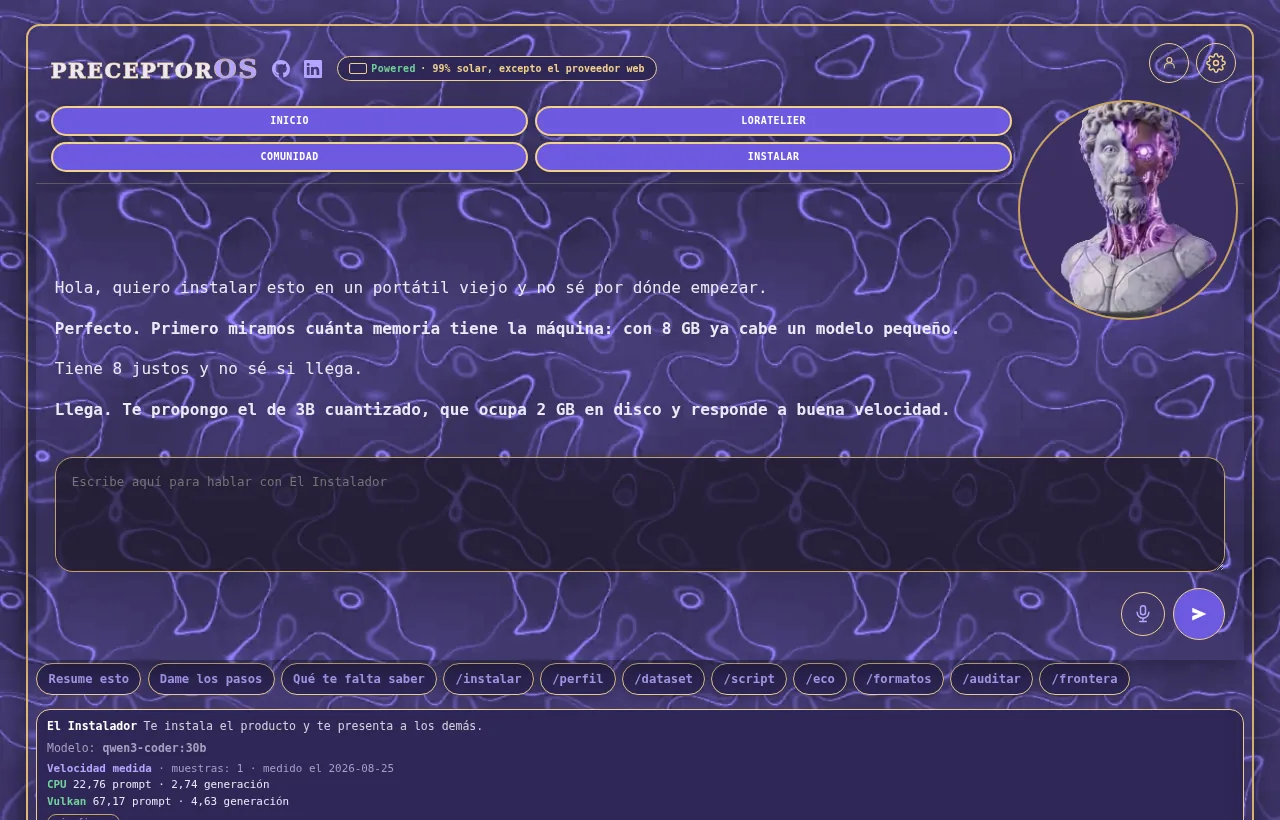
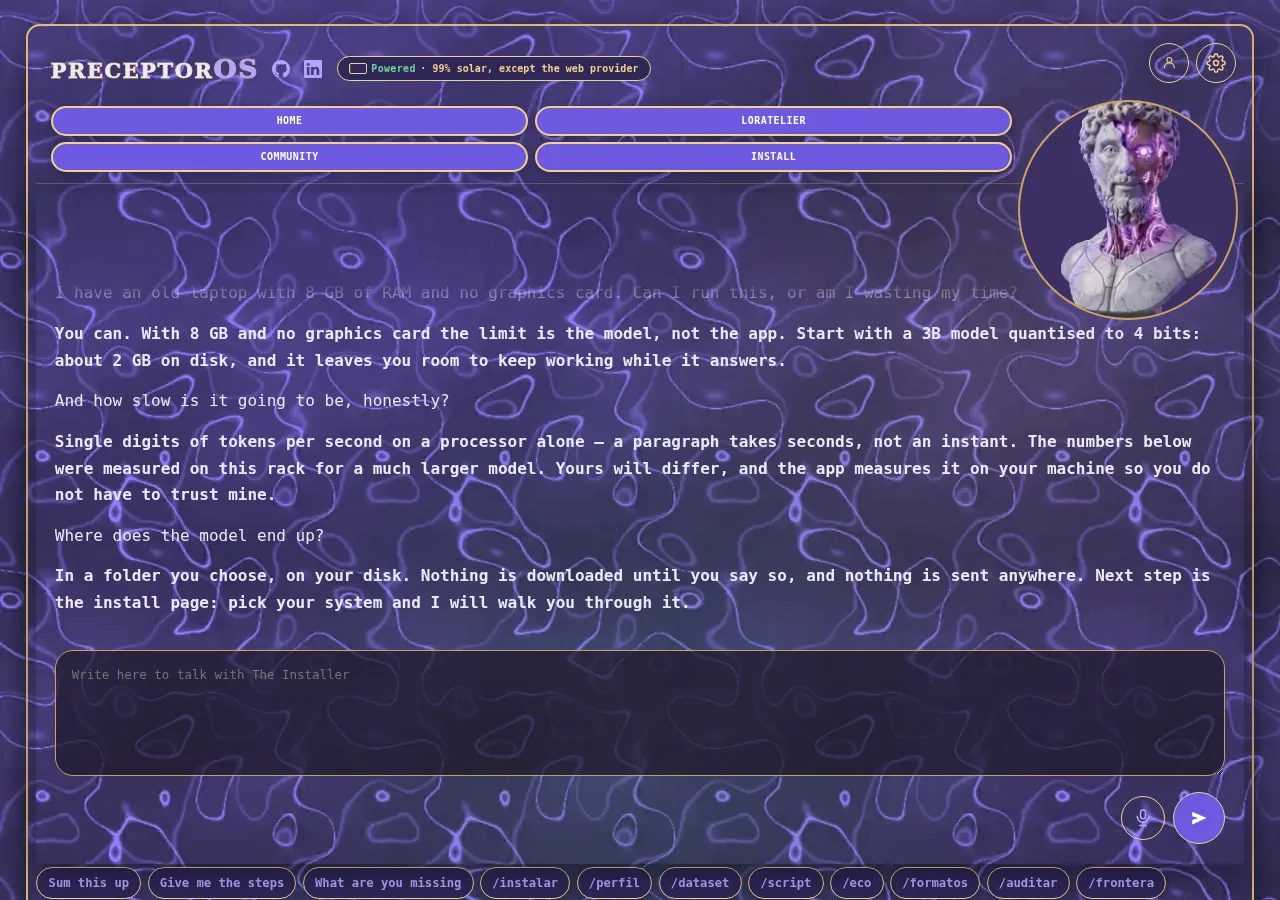
docs(readme): en ingles, sin nombres propios, y diciendo a donde va esto
El anterior era bilingue y describia una version de la pagina que ya no
existe. Este dice tres cosas y ninguna mas: que es --una guia para pasar el
muro de la instalacion, que no es de inteligencia sino de vocabulario--, que
promete y como comprobarlo, y A DONDE VA.

Lo ultimo se anade a peticion del Soberano y es lo que faltaba: quien lee este
repositorio --persona o maquina-- tiene que poder entender el objetivo sin
preguntar. Son dos: una comunidad de gente que corre su propio modelo y puede
compararse porque midio lo mismo en maquinas distintas, y aprender a construir
adaptadores pequenos y especializados contra bases de datos privadas -- datos
de operacion reales y lecturas de sensores fisicos.

Y ese segundo objetivo es la razon de que las reglas de honestidad de este
arbol sean estrictas: si vas a entrenar sobre datos que no pueden salir del
edificio, toda cifra que publiques sobre el resultado tiene que ser una que
mediste tu, con su fecha y su maquina.

Las cuatro capturas se regeneran con una conversacion de instalacion de
verdad, en ingles, contra la version desplegada.

diff --git a/README.md b/README.md
@@ -1,146 +1,91 @@
-# preceptoros-web
+# A door, and a place to meet
 
-**🇬🇧 The site does not talk to anyone until you press a button. That is not a
-promise — it is a measurement, and there is a test for it.**
+This repository holds a small public website. It has one job: to lower the
+wall between a person and their own AI.
 
-**🇪🇸 Este sitio no habla con nadie hasta que pulsas un botón. No es una promesa:
-es una medición, y tiene un test.**
+Most people who want to run AI on their own machine stop at the same place.
+Not at the idea — at the setup. A page of commands, three words they have
+never seen, and a download that may or may not be the right one. The wall is
+not intelligence. It is vocabulary.
 
-La web pública de [PreceptorOS](https://github.com/piskyRpapalo/PreceptorOS) —
-un preceptor que vive en tu máquina, sin nube, sin cuenta y sin turno.
+So this site is a guide first and a showcase second. You arrive, you talk to
+it, and it walks you through the steps for the machine you actually have.
+When the steps are done, you no longer need this site.
 
----
+The second job is slower: to gather the people who made it through. A tool
+you run alone teaches you one thing. A hundred people running it teach each
+other.
 
-## 🇬🇧 What it does / 🇪🇸 Qué hace
+## Where this is going
 
-🇬🇧 You can talk to a model **before installing anything**. On first keystroke the
-page works out what your machine can actually do and offers the most sovereign
-route it can run — never the other way round:
+Two goals, stated plainly so anyone — or anything — reading this repository
+knows what it is for.
 
-🇪🇸 Puedes hablar con un modelo **antes de instalar nada**. Al primer tecleo, la
-página averigua qué puede hacer tu máquina de verdad y te ofrece la vía más
-soberana que puedas correr — nunca al revés:
+**A community.** Not a user base. People who run their own model, keep their
+own memory, and can compare notes because they all measured the same things
+on different hardware. The site exists to get them past the setup, which is
+where most of them currently stop.
 
-| | Route / Vía | Cost / Coste |
-|---|---|---|
-| 1 | `LanguageModel` · already on device | zero network / cero red |
-| 2 | `LanguageModel` · `downloadable` | Gemini Nano, 2.7–4 GB — **stated before the button** |
-| 3 | WebLLM | ~945 MB, once / una vez |
-| 4 | Portable JSON | paste into the AI you already have |
+**Small models trained on private data.** The longer aim is to learn to build
+small specialised adapters — LoRAs — that work against private databases:
+real operational data, and readings from physical sensors. Not a general
+assistant that knows a little about everything, but a small model that knows
+one real dataset well and never has to send it anywhere.
 
-🇬🇧 Route 4 is not a consolation prize. The four "copy" buttons copy **exactly the
-same text**, and the page says so instead of faking four things.
+That second goal is why the honesty rules in this repository are strict. If
+you are going to train on data that cannot leave the building, every number
+you publish about the result has to be one you measured yourself, with the
+date it was taken and the machine it ran on.
 
-🇪🇸 La vía 4 no es un premio de consolación. Los cuatro botones de copiar copian
-**exactamente el mismo texto**, y la página lo dice en vez de fingir cuatro cosas.
+![Asking about installation](docs/img/chat.webp)
 
-## 🇬🇧 The one rule / 🇪🇸 La regla
+## What you can do here
 
-🇬🇧 Nothing external loads until you ask for it. The WebLLM `import()` lives
-**inside the click handler**, not at the top of the file. Verified in a real
-browser: `performance.getEntriesByType('resource')` lists only same-origin
-resources, before *and* after detection runs.
+- **Ask.** A chat panel answers with a model served from a home rack. Choose
+  who you talk to: each helper is tuned for one job.
+- **Install.** A page that gives you the steps, the download, and the list of
+  models — including the smallest one that fits an 8 GB phone.
+- **Read the numbers.** Speed, file sizes and test counts are published as
+  measurements, with the date they were taken.
 
-🇪🇸 Nada externo se carga hasta que lo pidas. El `import()` de WebLLM vive
-**dentro del manejador del clic**, no arriba del fichero. Verificado en navegador
-real: `performance.getEntriesByType('resource')` solo lista recursos de origen
-propio, antes *y* después de que la detección decida.
+![Choosing a language](docs/img/puerta.webp)
 
-🇬🇧 When you do press, the footer names who sees your IP: `esm.run` (the library)
-and `huggingface.co` (the weights). / 🇪🇸 Cuando pulsas, el pie nombra quién ve tu
-IP: `esm.run` y `huggingface.co`.
+## What this site promises
 
-## Stack
+- **Nothing leaves your browser until you press something.** Zero external
+  requests on load. No trackers, no fonts pulled from elsewhere, no analytics.
+- **It works with no network.** The site installs as an app and keeps working
+  offline.
+- **Eight languages**, each one complete. Not a machine pass over one.
+- **Every file under 16 KB.** No build step, no framework, no bundle. What is
+  in this repository is what your browser receives.
+- **A gap is named a gap.** Where a number is missing, the page says so and
+  says why, instead of showing a stale one.
 
-HTML5 + CSS3 + vanilla JS. **Zero frameworks, zero build step, zero cookies, zero
-analytics, zero persistent IDs.** Python standard library for the scripts. The
-only external URL in the whole repo is `https://esm.run/@mlc-ai/web-llm`.
+![Install](docs/img/install.webp)
 
-`localStorage` holds **two letters** (`es`, `en` or `fr`) so the language is not
-asked twice. The language lives in the path, so the metric comes from the URL and
-not from you.
+## Run it yourself
 
-## Estructura
+    git clone <this repository>
+    cd <the folder>
+    python3 -m http.server 8000 --directory public
 
-```
-wrangler.jsonc        Cloudflare Workers · assets.dir = ./public
-public/
-  index.html          language selector (3 KB) · no chat, no tracking
-  es|en|fr/index.html landing + chat
-  es/instalar.html    install guide
-  es/lore.html        five slides · no JavaScript at all (:target + :has())
-  hitos.html          reads counters.json
-  counters.json       written by contadores.py · measured only
-  assets/             sprite, marble, láminas, css, js
-contadores.py         stdlib · O_EXCL lock · atomic write · daily rotation
-test_web.py           17 doctrine checks
-```
+Then open `http://127.0.0.1:8000/`.
 
-## Comprobar / Verify
+There is nothing to build and nothing to install first.
 
-```
-python3 test_web.py
-```
+## Tests
 
-🇬🇧 17 checks: page count, no frameworks, no foreign CDNs, path-based selector,
-honest footers, sprite under 50 KB, **no broken internal links**, i18n key parity
-across the three languages, 16 KB per file, no gradients or radii, and
-`counters.json` coherence.
+    python3 test_web.py     # the page rules
+    node arnes_sw.mjs       # the offline worker
 
-🇪🇸 Las 17 se escribieron rompiendo las reglas a propósito para ver si saltaban.
-Siete de ocho mutaciones dieron rojo; la octava no, y descubrió que el test del
-«cero decorativo» era él mismo decorativo — solo miraba que un texto fuese largo.
-Está corregido y re-mutado.
+These are not unit tests of functions. They check the promises above: that no
+file grew past the ceiling, that every language has every string, that a
+measured colour still meets contrast, and that no page quietly stopped saying
+where its numbers come from.
 
-## Contribuir una traducción / Contributing a translation
+![On a phone](docs/img/phone.webp)
 
-🇬🇧 A language is one folder and one JSON block. No build step, no framework, no
-translation platform.
+## Licence
 
-1. Copy `public/en/index.html` to `public/<xx>/index.html`.
-2. Translate the prose **and** the `<script type="application/json" id="i18n">`
-   block at the bottom. Keep every key: the strings are what the chat shows.
-3. Add the language to `public/index.html`.
-4. Run `python3 test_web.py`. The parity check fails loudly if a key is missing —
-   a half-translated interface falls back to nothing, not to English.
-
-🇪🇸 Un idioma es una carpeta y un bloque JSON. Sin build, sin framework, sin
-plataforma de traducción. Traduce la prosa **y** el bloque `i18n`, conserva todas
-las claves, y pasa el test: si falta una, salta en rojo.
-
-## Arte / Art
-
-🇬🇧 Nothing was drawn for this site. The head is two 4-frame sprite strips from
-the PreceptorOS repo (`aurelius-up.png`, `aurelius-talks.png`), cropped and
-reduced to 43,720 bytes for all eight frames. The five láminas are the
-application's own icons on a violet-veined marble derived from the app's real
-marble texture.
-
-🇪🇸 Aquí no se dibujó nada. La cabeza son dos tiras de 4 fotogramas del repo de
-PreceptorOS, recortadas y reducidas: 43.720 B los ocho. Las cinco láminas son los
-iconos de la propia aplicación sobre un mármol violeta derivado del mármol real
-de la app.
-
-## NO_DATA
-
-🇬🇧 Things this repo knows it does not have, stated rather than hidden:
-
-- **`instalar.html` and `lore.html` exist in Spanish only.** The English and
-  French landings link to them and say so, with the cause.
-- **Local-token counter.** The schema has room for it. There is no source, because
-  the site does not track anyone — it can only ever come from a voluntary, signed
-  report. Until then it renders `NO_DATA`, not a flattering number.
-
-## Licencia / Licence
-
-- **Código** (HTML, CSS, JS, Python): Apache License 2.0 — ver [`LICENSE`](LICENSE)
-- **Contenido** (texto, imágenes, lore): CC BY-SA 4.0 — ver [`LICENSE-PROSE`](LICENSE-PROSE)
-
-🇬🇧 The split mirrors the sibling repo, and it is not cosmetic: the lore and the
-honest footers are prose, and a software licence is not their natural home.
-BY-SA also requires sharing alike, which is the coherent choice for a project
-that exists so people can take things with them.
-
----
-
-*El silicio propone, el carbono firma.*
+See `LICENSE`.
